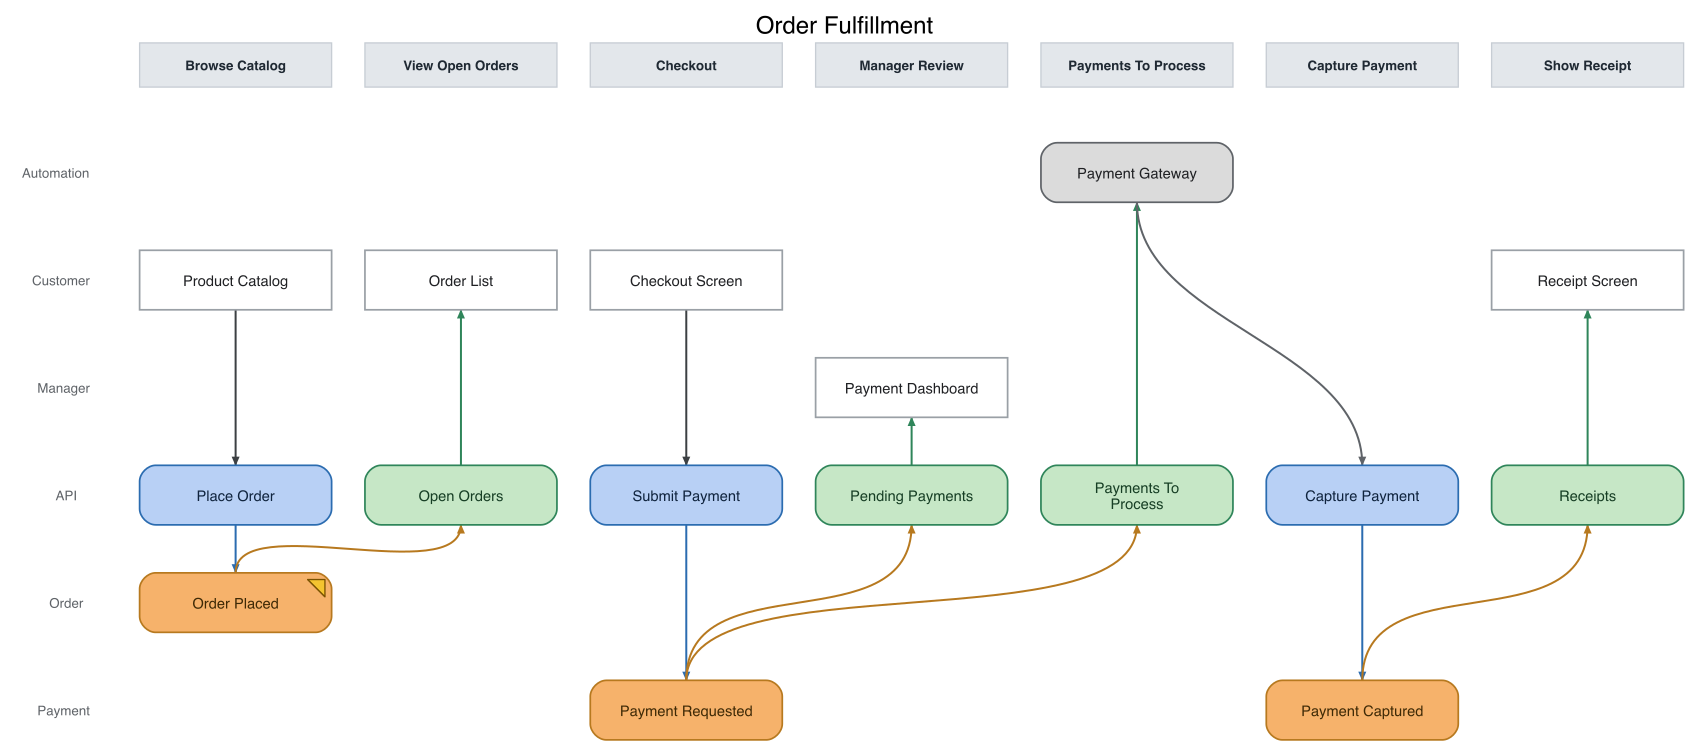
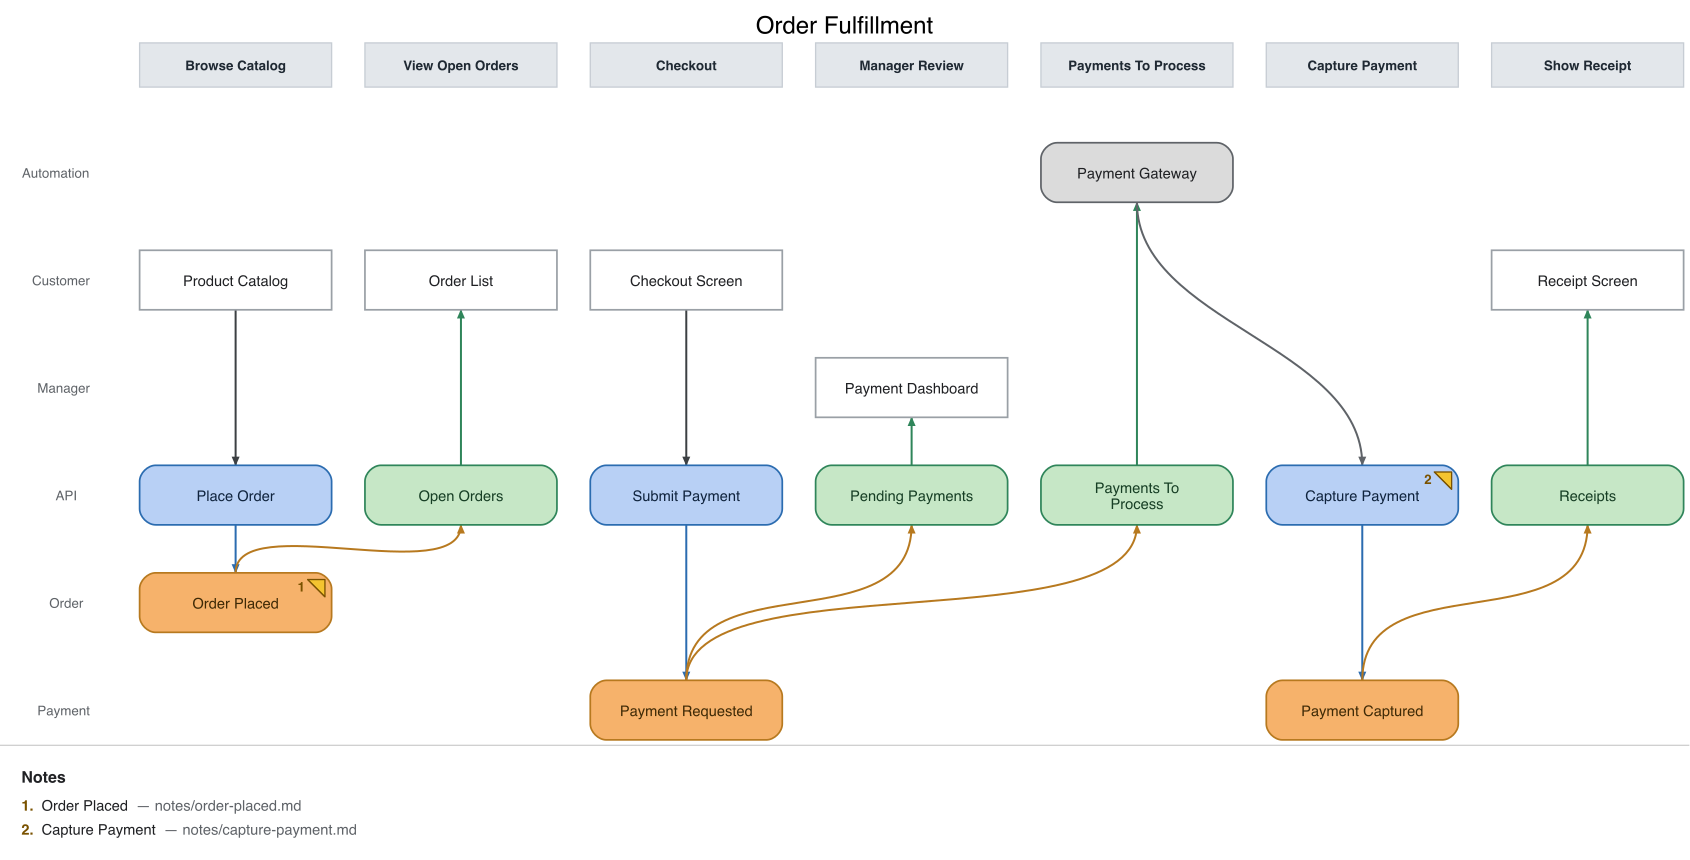
Number note markers and append a legend for static output
PNG/PDF can't carry links (confirmed librsvg drops them on both paths), so a bare
marker doesn't say which note belongs to which box when there are several. Each
marker now carries a footnote number, and a legend is appended below the diagram
mapping number → element → note file. In SVG the markers and legend rows remain
clickable; in raster the number + legend are the disambiguation.

- drawNotes.ts: notedElements() ordering shared by markers and legend; markers
  gain a number; appendNoteLegend() grows the canvas (height + viewBox, keeping
  the pt:viewBox ratio) and injects the legend at root coords under the diagram
- render.ts: append the legend after the marker overlay
- example gains a second note (Capture Payment) so the legend shows >1 row;
  examples/notes/capture-payment.md added; PNG regenerated
- README/outstanding-items: document numbered markers + legend and the
  SVG-only-links limitation

diff --git a/src/render/drawNotes.ts b/src/render/drawNotes.ts
@@ -1,13 +1,17 @@
-// Draws a small "has notes" marker on top of any box whose element carries a
-// `note "path.md"` clause. The marker is a folded corner (dog-ear) in the box's
-// top-right corner — an unobtrusive annotation affordance that doesn't disturb
-// the grid. In SVG it is wrapped in an anchor so clicking it opens the linked
-// markdown; raster output (rsvg→PNG) keeps the marker but drops the link.
+// Draws "has notes" affordances on top of a Graphviz-rendered SVG:
+//   - a small folded-corner (dog-ear) marker in each noted box's top-right
+//     corner, carrying a footnote number;
+//   - a legend appended below the diagram mapping each number to its element
+//     and note file.
+// In SVG the markers and legend rows are anchors (click to open the markdown);
+// raster output (PNG/PDF) can't carry links, so the footnote number + legend
+// are what tell you which note belongs to which element.
 //
-// Coordinates come from parseNodeRects (same user space as the SVG); y grows
-// downward, so the box top edge has the smaller y.
+// Marker coordinates come from parseNodeRects (the box coordinate space, inside
+// Graphviz's transform group). The legend is laid out in the SVG's root/viewBox
+// space, so it is appended after the diagram and the canvas is grown to fit.
 
-import { NormalizedModel } from "../model/model.js";
+import { Element, NormalizedModel } from "../model/model.js";
 import { Rect } from "./svgGeometry.js";
 
 const FOLD = 13; // leg length of the dog-ear, in user units
@@ -15,22 +19,26 @@ const INSET = 5; // pull off the bounding corner so it clears rounded box corner
 const FILL = "#F4C430"; // sticky-note amber
 const STROKE = "#7A5200"; // dark amber — reads on light and orange fills alike
 
-/** SVG group with a corner marker per noted element (empty group if none). */
+/** Elements carrying a note, in document order. Index + 1 is the footnote number. */
+export function notedElements(model: NormalizedModel): Element[] {
+  return model.elements.filter((el) => el.note);
+}
+
+/** SVG group with a numbered corner marker per noted element (inside the graph group). */
 export function buildNoteMarkers(model: NormalizedModel, rects: Map<string, Rect>): string {
   const markers: string[] = [];
 
-  for (const el of model.elements) {
-    if (!el.note) continue;
+  notedElements(model).forEach((el, i) => {
     const r = rects.get(el.id);
-    if (!r) continue;
-    markers.push(marker(r, el.note));
-  }
+    if (!r) return;
+    markers.push(marker(r, el.note!, i + 1));
+  });
 
   return `<g class="em-notes">${markers.join("")}</g>`;
 }
 
-/** A folded-corner glyph at the box's top-right, linked to the note file. */
-function marker(r: Rect, note: string): string {
+/** A folded-corner glyph + footnote number at the box's top-right, linked to the note. */
+function marker(r: Rect, note: string, num: number): string {
   const href = esc(note);
   // Dog-ear inset from the box's top-right corner: a filled triangle whose
   // right-angle sits on the box face, with a fold crease across its hypotenuse.
@@ -38,12 +46,81 @@ function marker(r: Rect, note: string): string {
   const y = r.top + INSET; // y grows downward, so this nudges down from the top edge
   const tri = `M${n(x - FOLD)},${n(y)} L${n(x)},${n(y)} L${n(x)},${n(y + FOLD)} Z`;
   const crease = `M${n(x - FOLD)},${n(y)} L${n(x)},${n(y + FOLD)}`;
+  // footnote number, just left of the fold, inside the box
+  const numX = x - FOLD - 2;
+  const numY = y + 9;
   return (
     `<a xlink:href="${href}" href="${href}" target="_blank">` +
-    `<title>${href}</title>` +
+    `<title>${num}. ${href}</title>` +
     `<path d="${tri}" fill="${FILL}" stroke="${STROKE}" stroke-width="1" stroke-linejoin="round"/>` +
     `<path d="${crease}" fill="none" stroke="${STROKE}" stroke-width="0.7"/>` +
+    `<text x="${n(numX)}" y="${n(numY)}" text-anchor="end" font-family="Helvetica" ` +
+    `font-weight="bold" font-size="10" fill="${STROKE}">${num}</text>` +
     `</a>`
+  );
+}
+
+// ---- legend ----
+
+const PAD_X = 16;
+const PAD_TOP = 14;
+const HEAD_H = 22;
+const LINE_H = 18;
+const PAD_BOTTOM = 14;
+
+/**
+ * Grow the canvas and append a notes legend below the diagram. Returns the SVG
+ * unchanged if there are no notes or the dimensions can't be parsed.
+ */
+export function appendNoteLegend(svg: string, model: NormalizedModel): string {
+  const noted = notedElements(model);
+  if (noted.length === 0) return svg;
+
+  const vb = /viewBox="([\d.eE+-]+)\s+([\d.eE+-]+)\s+([\d.eE+-]+)\s+([\d.eE+-]+)"/.exec(svg);
+  const hpt = /height="([\d.eE+-]+)pt"/.exec(svg);
+  if (!vb || !hpt) return svg; // can't safely resize — leave markers only
+
+  const minX = +vb[1];
+  const minY = +vb[2];
+  const vw = +vb[3];
+  const vh = +vb[4];
+
+  const legendH = PAD_TOP + HEAD_H + noted.length * LINE_H + PAD_BOTTOM;
+  const newVh = vh + legendH;
+  const newHpt = (+hpt[1]) * (newVh / vh); // keep the pt:viewBox ratio (handles scaling)
+  const top = minY + vh; // legend sits just below the diagram, in root coords
+
+  let out = svg;
+  out = out.replace(hpt[0], `height="${n(newHpt)}pt"`);
+  out = out.replace(vb[0], `viewBox="${vb[1]} ${vb[2]} ${vb[3]} ${n(newVh)}"`);
+
+  const rows = noted
+    .map((el, i) => row(el, i + 1, minX + PAD_X, top + PAD_TOP + HEAD_H + i * LINE_H + 13))
+    .join("");
+
+  const legend =
+    `<g class="em-note-legend">` +
+    `<rect x="${n(minX)}" y="${n(top)}" width="${n(vw)}" height="${n(legendH)}" fill="#FFFFFF"/>` +
+    `<line x1="${n(minX)}" y1="${n(top)}" x2="${n(minX + vw)}" y2="${n(top)}" stroke="#D0D0D0" stroke-width="1"/>` +
+    `<text x="${n(minX + PAD_X)}" y="${n(top + PAD_TOP + 14)}" font-family="Helvetica" ` +
+    `font-weight="bold" font-size="12" fill="#202124">Notes</text>` +
+    rows +
+    `</g>`;
+
+  return out.replace(/(<\/g>\s*)(<\/svg>)/, `$1${legend}$2`);
+}
+
+/** One legend row: "N.  Element name — path", linked to the note. */
+function row(el: Element, num: number, x: number, y: number): string {
+  const href = esc(el.note!);
+  const name = esc(el.name);
+  return (
+    `<a xlink:href="${href}" href="${href}" target="_blank">` +
+    `<text x="${n(x)}" y="${n(y)}" font-family="Helvetica" font-size="11" fill="#202124">` +
+    `<tspan font-weight="bold" fill="${STROKE}">${num}.</tspan>` +
+    `<tspan dx="6">${name}</tspan>` +
+    `<tspan dx="6" fill="#5F6368">— ${href}</tspan>` +
+    `</text></a>`
   );
 }
 

diff --git a/test/drawNotes.test.ts b/test/drawNotes.test.ts
@@ -1,7 +1,7 @@
 import { describe, it, expect } from "vitest";
 import { parse } from "../src/parser/parser.js";
 import { normalize } from "../src/model/model.js";
-import { buildNoteMarkers } from "../src/render/drawNotes.js";
+import { buildNoteMarkers, appendNoteLegend } from "../src/render/drawNotes.js";
 import { Rect } from "../src/render/svgGeometry.js";
 
 const modelFrom = (src: string) => normalize(parse(src));
@@ -30,6 +30,8 @@ slice "S" {
     expect(group).toContain("<path");
     // anchored near the box's top-right corner (right=150, top=80), inset by 5
     expect(group).toContain("145,85");
+    // carries a footnote number
+    expect(group).toContain(">1</text>");
   });
 
   it("emits nothing for an element without a note", () => {
@@ -54,5 +56,41 @@ slice "S" {
     const group = buildNoteMarkers(model, new Map([[id, box(0, 0)]]));
     expect(group).toContain("a&amp;b.md");
     expect(group).not.toContain('href="a&b.md"');
+  });
+});
+
+describe("appendNoteLegend", () => {
+  const fakeSvg = (w: number, h: number) =>
+    `<svg width="${w}pt" height="${h}pt"\n viewBox="0.00 0.00 ${w}.00 ${h}.00" ` +
+    `xmlns="http://www.w3.org/2000/svg"><g id="graph0" transform="scale(1 1) ` +
+    `rotate(0) translate(0 ${h})"><polygon points="0,0"/></g></svg>`;
+
+  it("grows the canvas and lists each note with its number, name and path", () => {
+    const model = modelFrom(`
+slice "S" {
+  event Order Placed note "notes/order-placed.md"
+}
+slice "T" {
+  command Capture Payment note "notes/capture.md"
+}
+`);
+    const out = appendNoteLegend(fakeSvg(400, 200), model);
+    const newH = Number(/height="([\d.]+)pt"/.exec(out)![1]);
+    expect(newH).toBeGreaterThan(200); // canvas grew to fit the legend
+    expect(out).toContain("Notes");
+    expect(out).toContain("Order Placed");
+    expect(out).toContain("notes/order-placed.md");
+    expect(out).toContain("Capture Payment");
+    expect(out).toContain("notes/capture.md");
+    expect(out).toContain(">1.</tspan>");
+    expect(out).toContain(">2.</tspan>");
+    // viewBox height grew in step with the pt height
+    expect(out).toMatch(/viewBox="0.00 0.00 400.00 [\d.]+"/);
+  });
+
+  it("leaves the SVG untouched when there are no notes", () => {
+    const model = modelFrom(`slice "S" {\n  event Order Placed\n}`);
+    const svg = fakeSvg(400, 200);
+    expect(appendNoteLegend(svg, model)).toBe(svg);
   });
 });

diff --git a/src/render/render.ts b/src/render/render.ts
@@ -12,7 +12,7 @@ import { extname } from "node:path";
 import { NormalizedModel } from "../model/model.js";
 import { parseNodeRects } from "./svgGeometry.js";
 import { buildEdgeOverlay } from "./drawEdges.js";
-import { buildNoteMarkers } from "./drawNotes.js";
+import { buildNoteMarkers, appendNoteLegend } from "./drawNotes.js";
 
 const DOT_BIN = process.env.EM_DOT || "dot";
 const RSVG_BIN = process.env.EM_RSVG || "rsvg-convert";
@@ -63,6 +63,8 @@ function withOverlays(svg: string, model: NormalizedModel): string {
   // (so they share the box coordinate space) but after every node, as the last
   // child of that group, making them the topmost clickable layer.
   out = out.replace(/(<\/g>\s*)(<\/svg>)/, `${notes}$1$2`);
+  // grow the canvas and append the legend below the diagram (root coords)
+  out = appendNoteLegend(out, model);
   return out;
 }
 

diff --git a/README.md b/README.md
@@ -122,12 +122,15 @@ data-flow arrow. Arrows between elements in a slice are inferred from the patter
 ### Notes
 
 Any element can carry `note "path.md"` (valid on every keyword). The prose lives in the
-markdown file — keeping the diagram uncluttered — and the box gets a small **folded-corner
-marker** in its top-right corner showing it has notes. In **SVG** output that marker is a
-link: clicking it opens the markdown file (paths resolve relative to the `.em` file, so keep
-the notes directory beside the diagram). Raster output (PNG/PDF) shows the marker but, being
-an image, can't carry the link. `em render`/`em watch` warn (without failing) if a note file
-can't be found.
+markdown file — keeping the diagram uncluttered — and the box gets a small **numbered
+folded-corner marker** in its top-right corner showing it has notes. A **legend** is
+appended below the diagram mapping each number to its element and note file, so even in a
+static export you can tell which note belongs to which box.
+
+In **SVG** output the markers and legend rows are links: clicking one opens the markdown
+file (paths resolve relative to the `.em` file, so keep the notes directory beside the
+diagram). Raster output (PNG/PDF) can't carry links — that's what the footnote numbers and
+legend are for. `em render`/`em watch` warn (without failing) if a note file can't be found.
 
 ## Validation rules (`em validate`)
 

diff --git a/examples/notes/capture-payment.md b/examples/notes/capture-payment.md
@@ -1,0 +1,14 @@
+# Note: `Capture Payment`
+
+This command is **not** triggered by a user — the `Payment Gateway` automation
+issues it once a payment is ready to process (see the automation slice in the
+previous column). It records `Payment Captured`.
+
+## Things to nail down
+
+- Idempotency: the gateway may retry. Capturing twice for one authorization is a
+  defect — the command handler must dedupe on the authorization id.
+- Partial captures: do we support capturing less than the authorized amount
+  (e.g. after a line-item cancellation), or always capture in full?
+- Failure path: a declined capture should emit a distinct event (e.g.
+  `Payment Capture Failed`) rather than silently dropping.

diff --git a/docs/outstanding-items.md b/docs/outstanding-items.md
@@ -39,11 +39,14 @@ them to `persona "Customer Service"`. Update parser + a couple of tests.
 
 ## 2b. Element notes 🟢 (shipped)
 
-Any element can carry `note "path.md"`; the box shows a folded-corner marker that
-links to the markdown in SVG output. See README → DSL → Notes. Parser
-(`note` clause), `Element.note`, and `src/render/drawNotes.ts` (corner marker
-injected into the SVG over the boxes). `em render`/`watch` warn on a missing note
-file without failing.
+Any element can carry `note "path.md"`; the box shows a numbered folded-corner
+marker and a legend is appended below the diagram mapping number → element → note
+file (so raster exports, which can't carry links, are still self-describing). In
+SVG the markers and legend rows link to the markdown. See README → DSL → Notes.
+Parser (`note` clause), `Element.note`, and `src/render/drawNotes.ts` (marker +
+legend injected into the SVG). `em render`/`watch` warn on a missing note file
+without failing. Note: neither PNG nor our PDF path (librsvg) preserves links —
+SVG only.
 
 ## 2c. Element fields (next: PR #2) 🔴
 